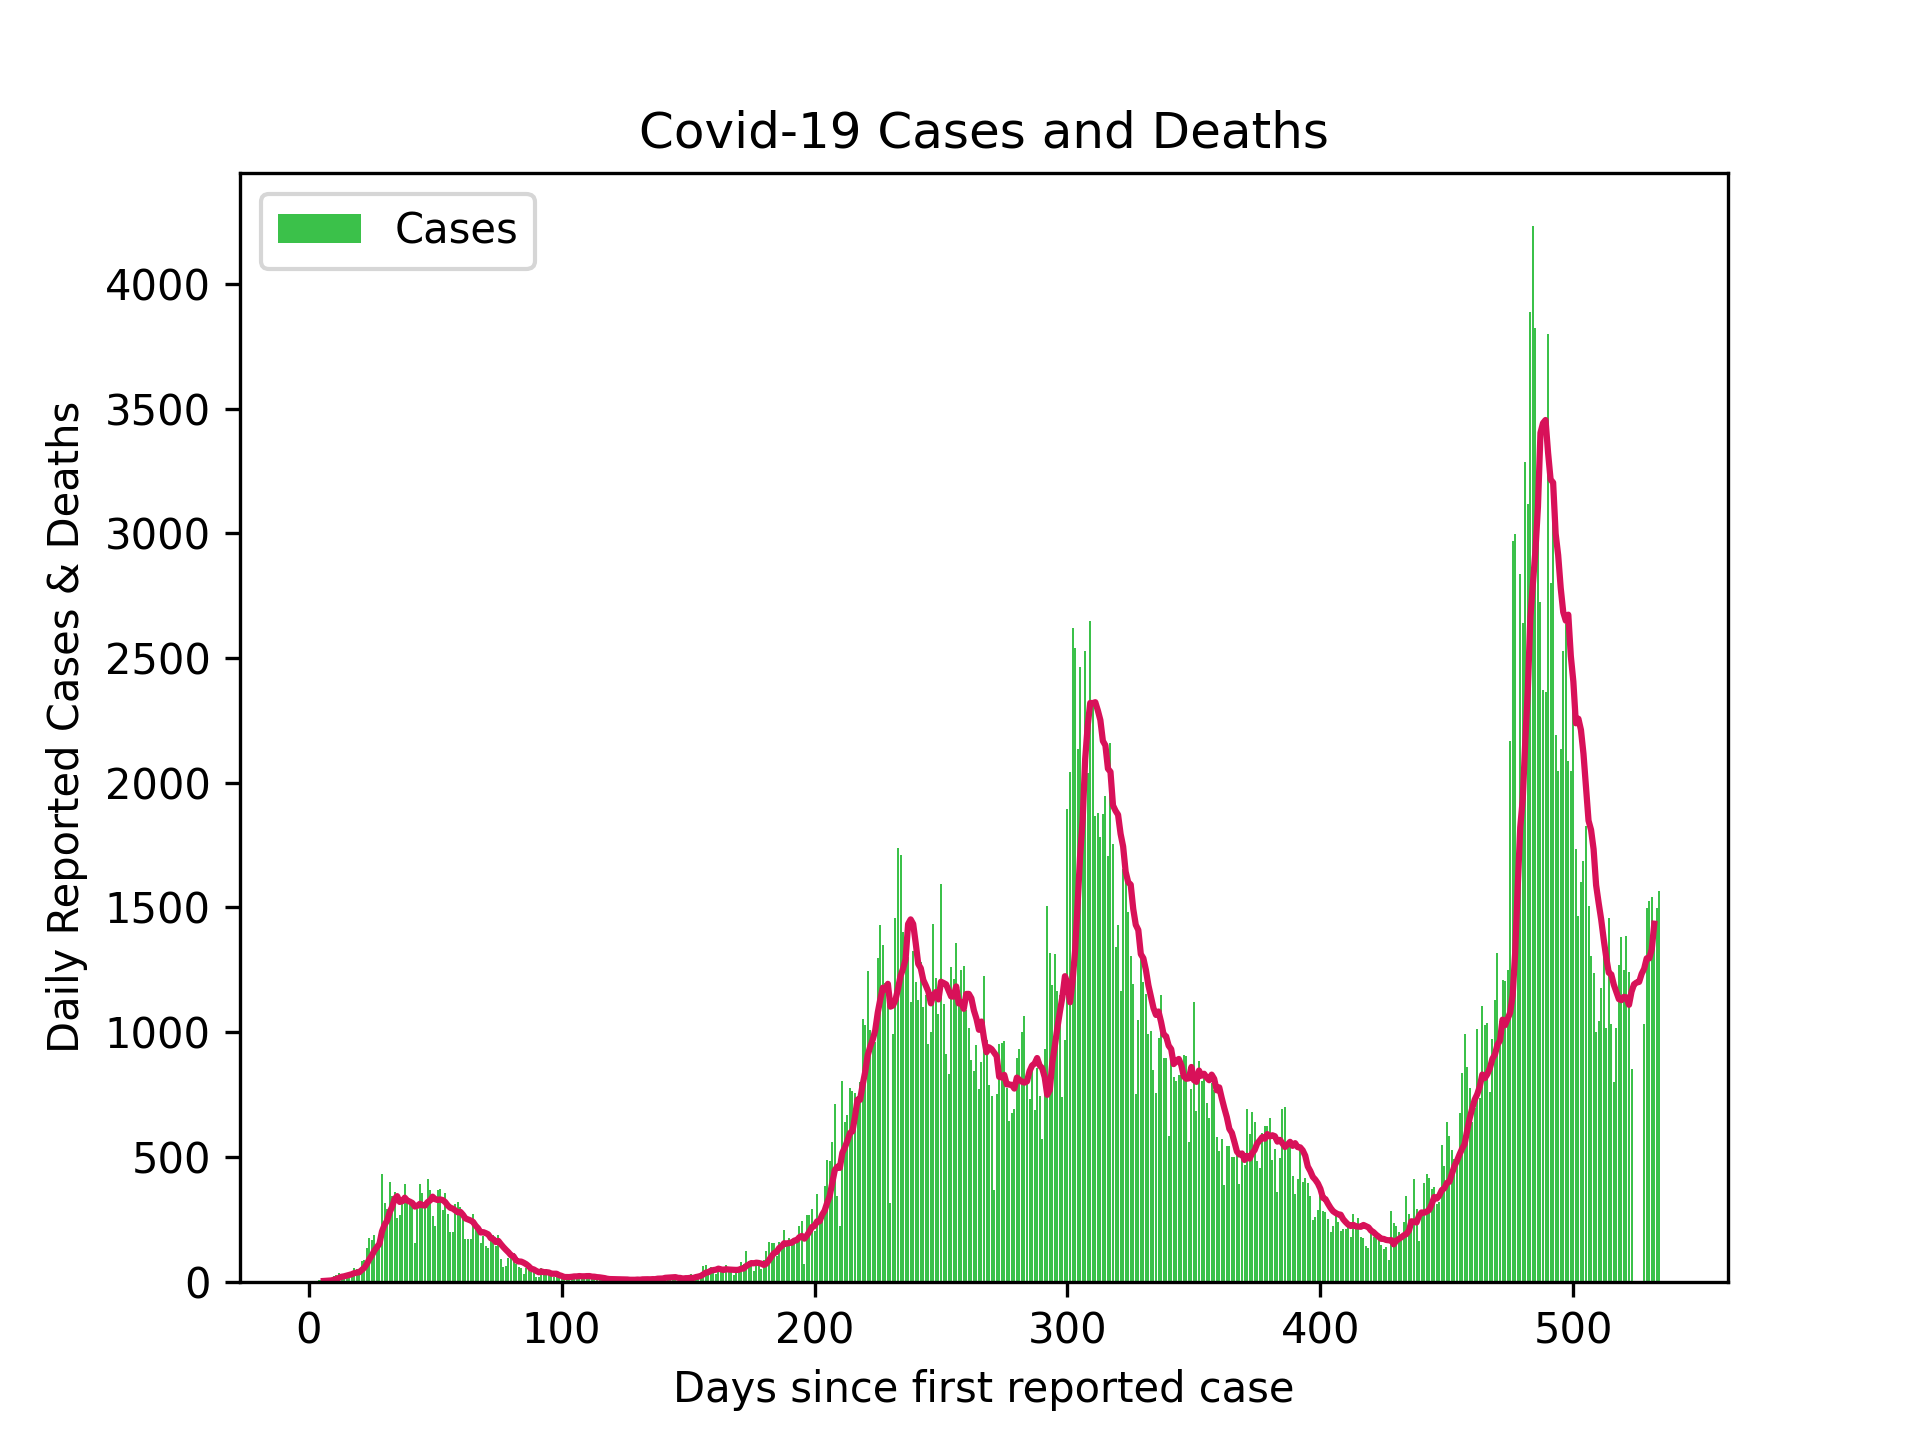
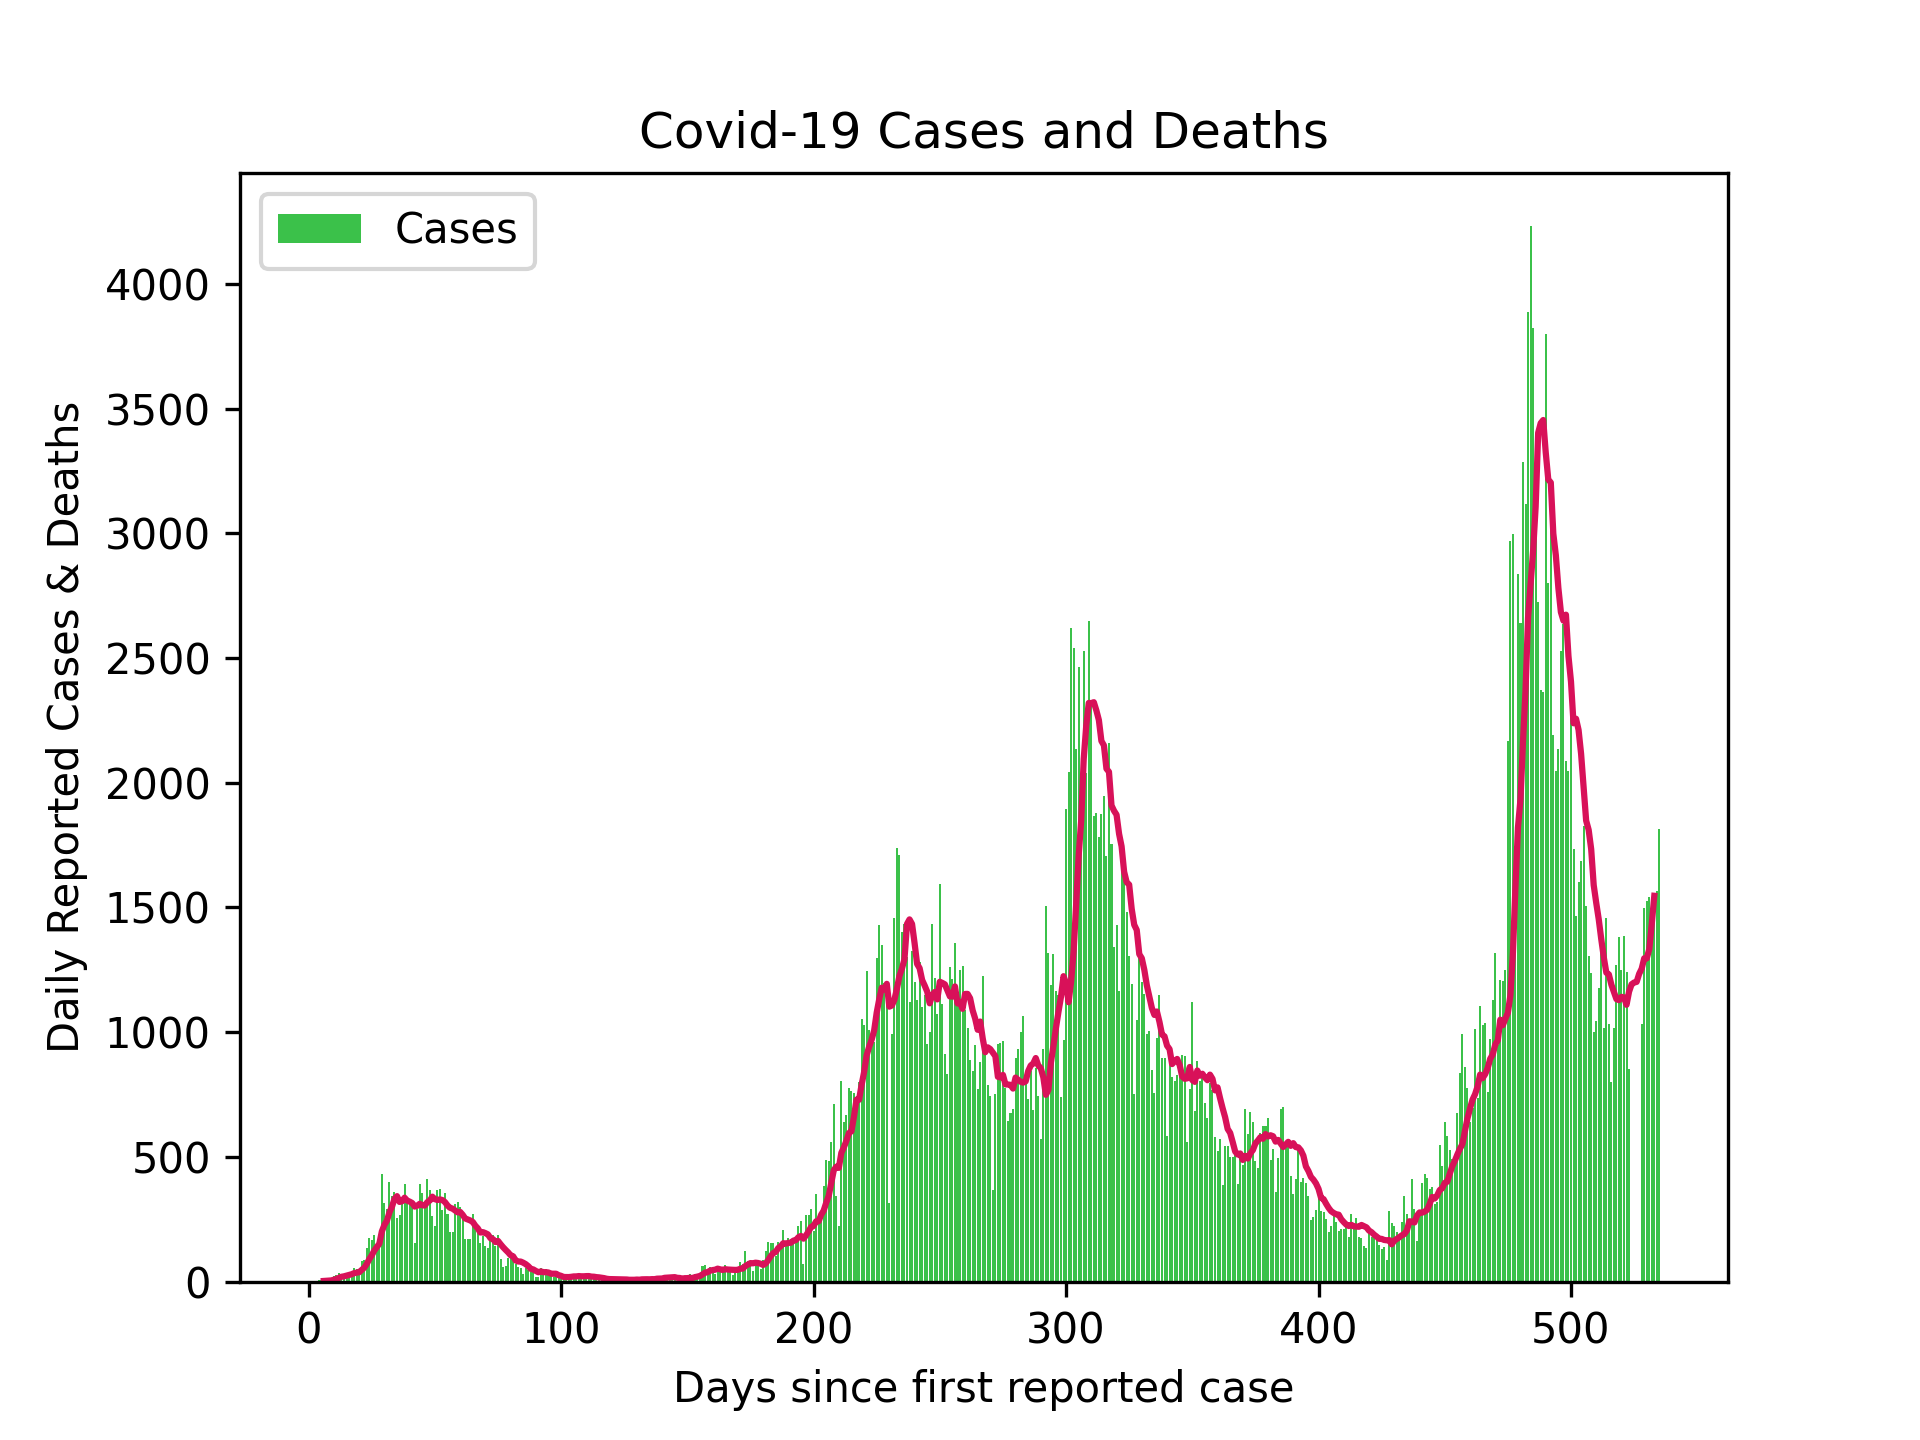
Updated Scottish cases 17/08/21. No more updates after this, 535 days is enough for the mental health.

Changed region(s): [[0.375, 0.2188, 0.875, 0.9375], [0.2188, 0.8438, 0.2812, 0.9062], [0.7812, 0.9062, 0.8438, 0.9375]]

diff --git a/README.md b/README.md
@@ -1,4 +1,6 @@
-# Scottish Cases 16/08/21
+# Scottish Cases 17/08/21
+
+**NOTE**: This repository will no longer be updated after the above date.
 
 ![alt](scottish_cases.png)
 
